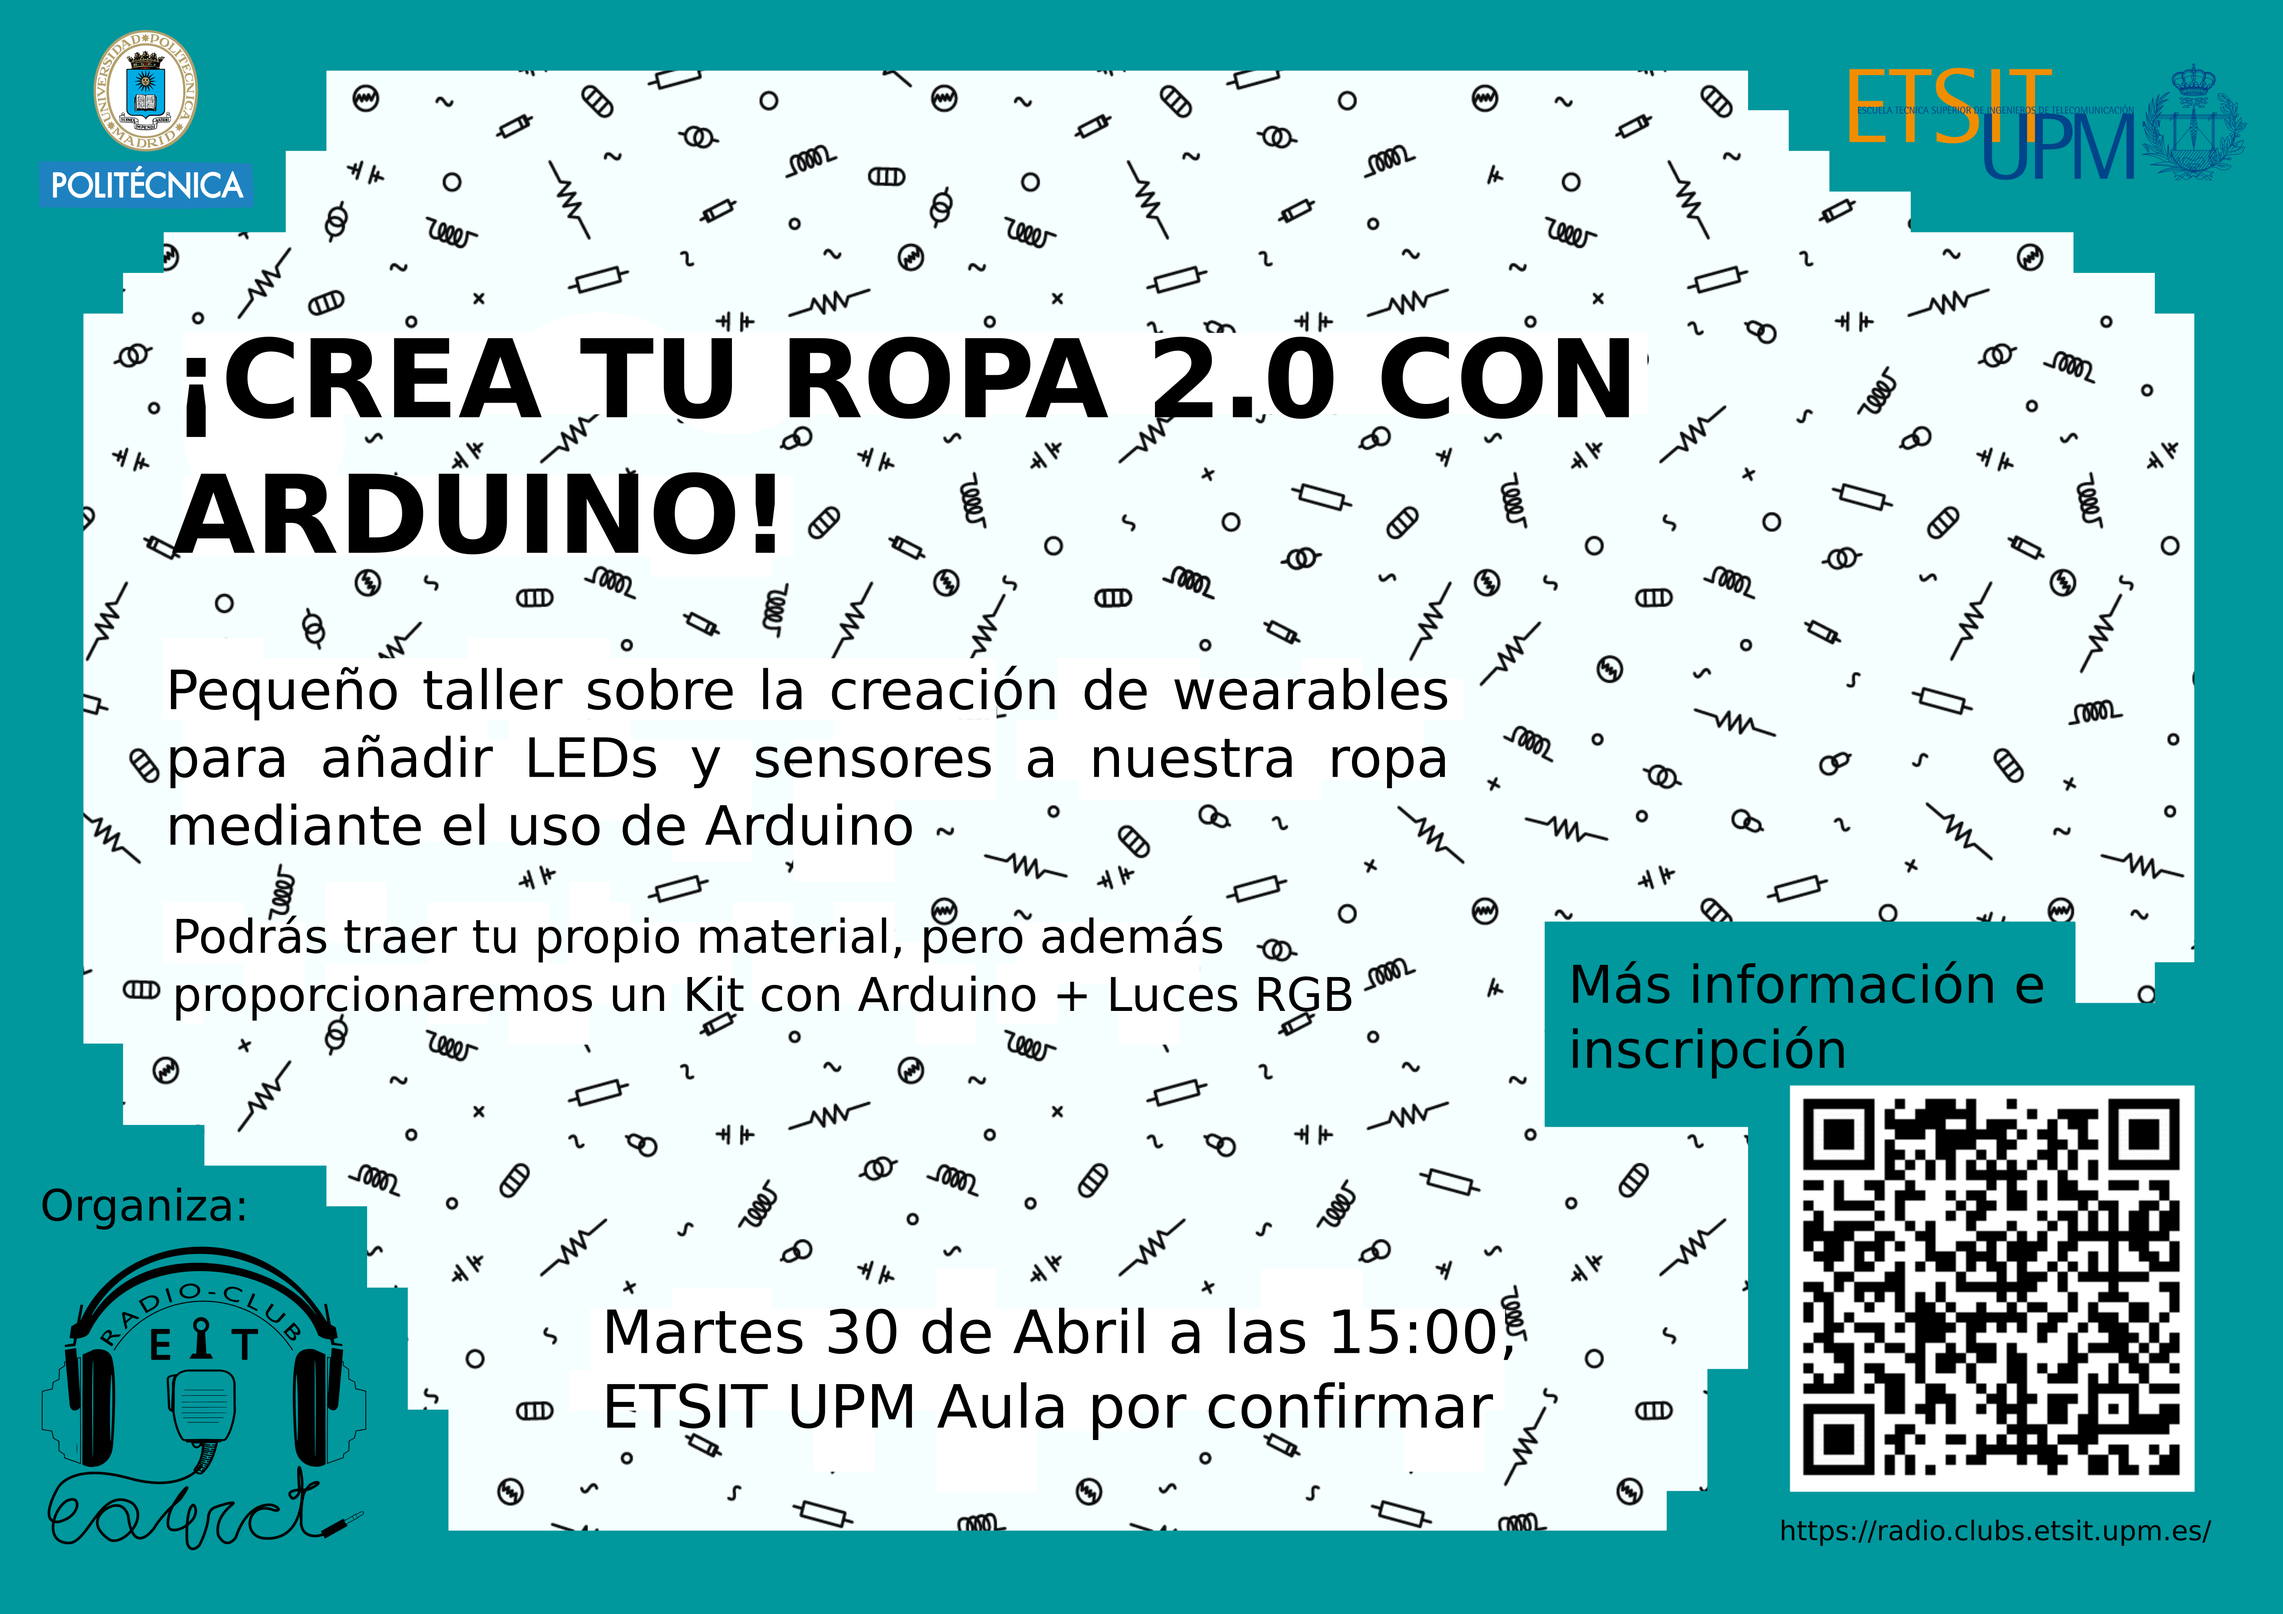
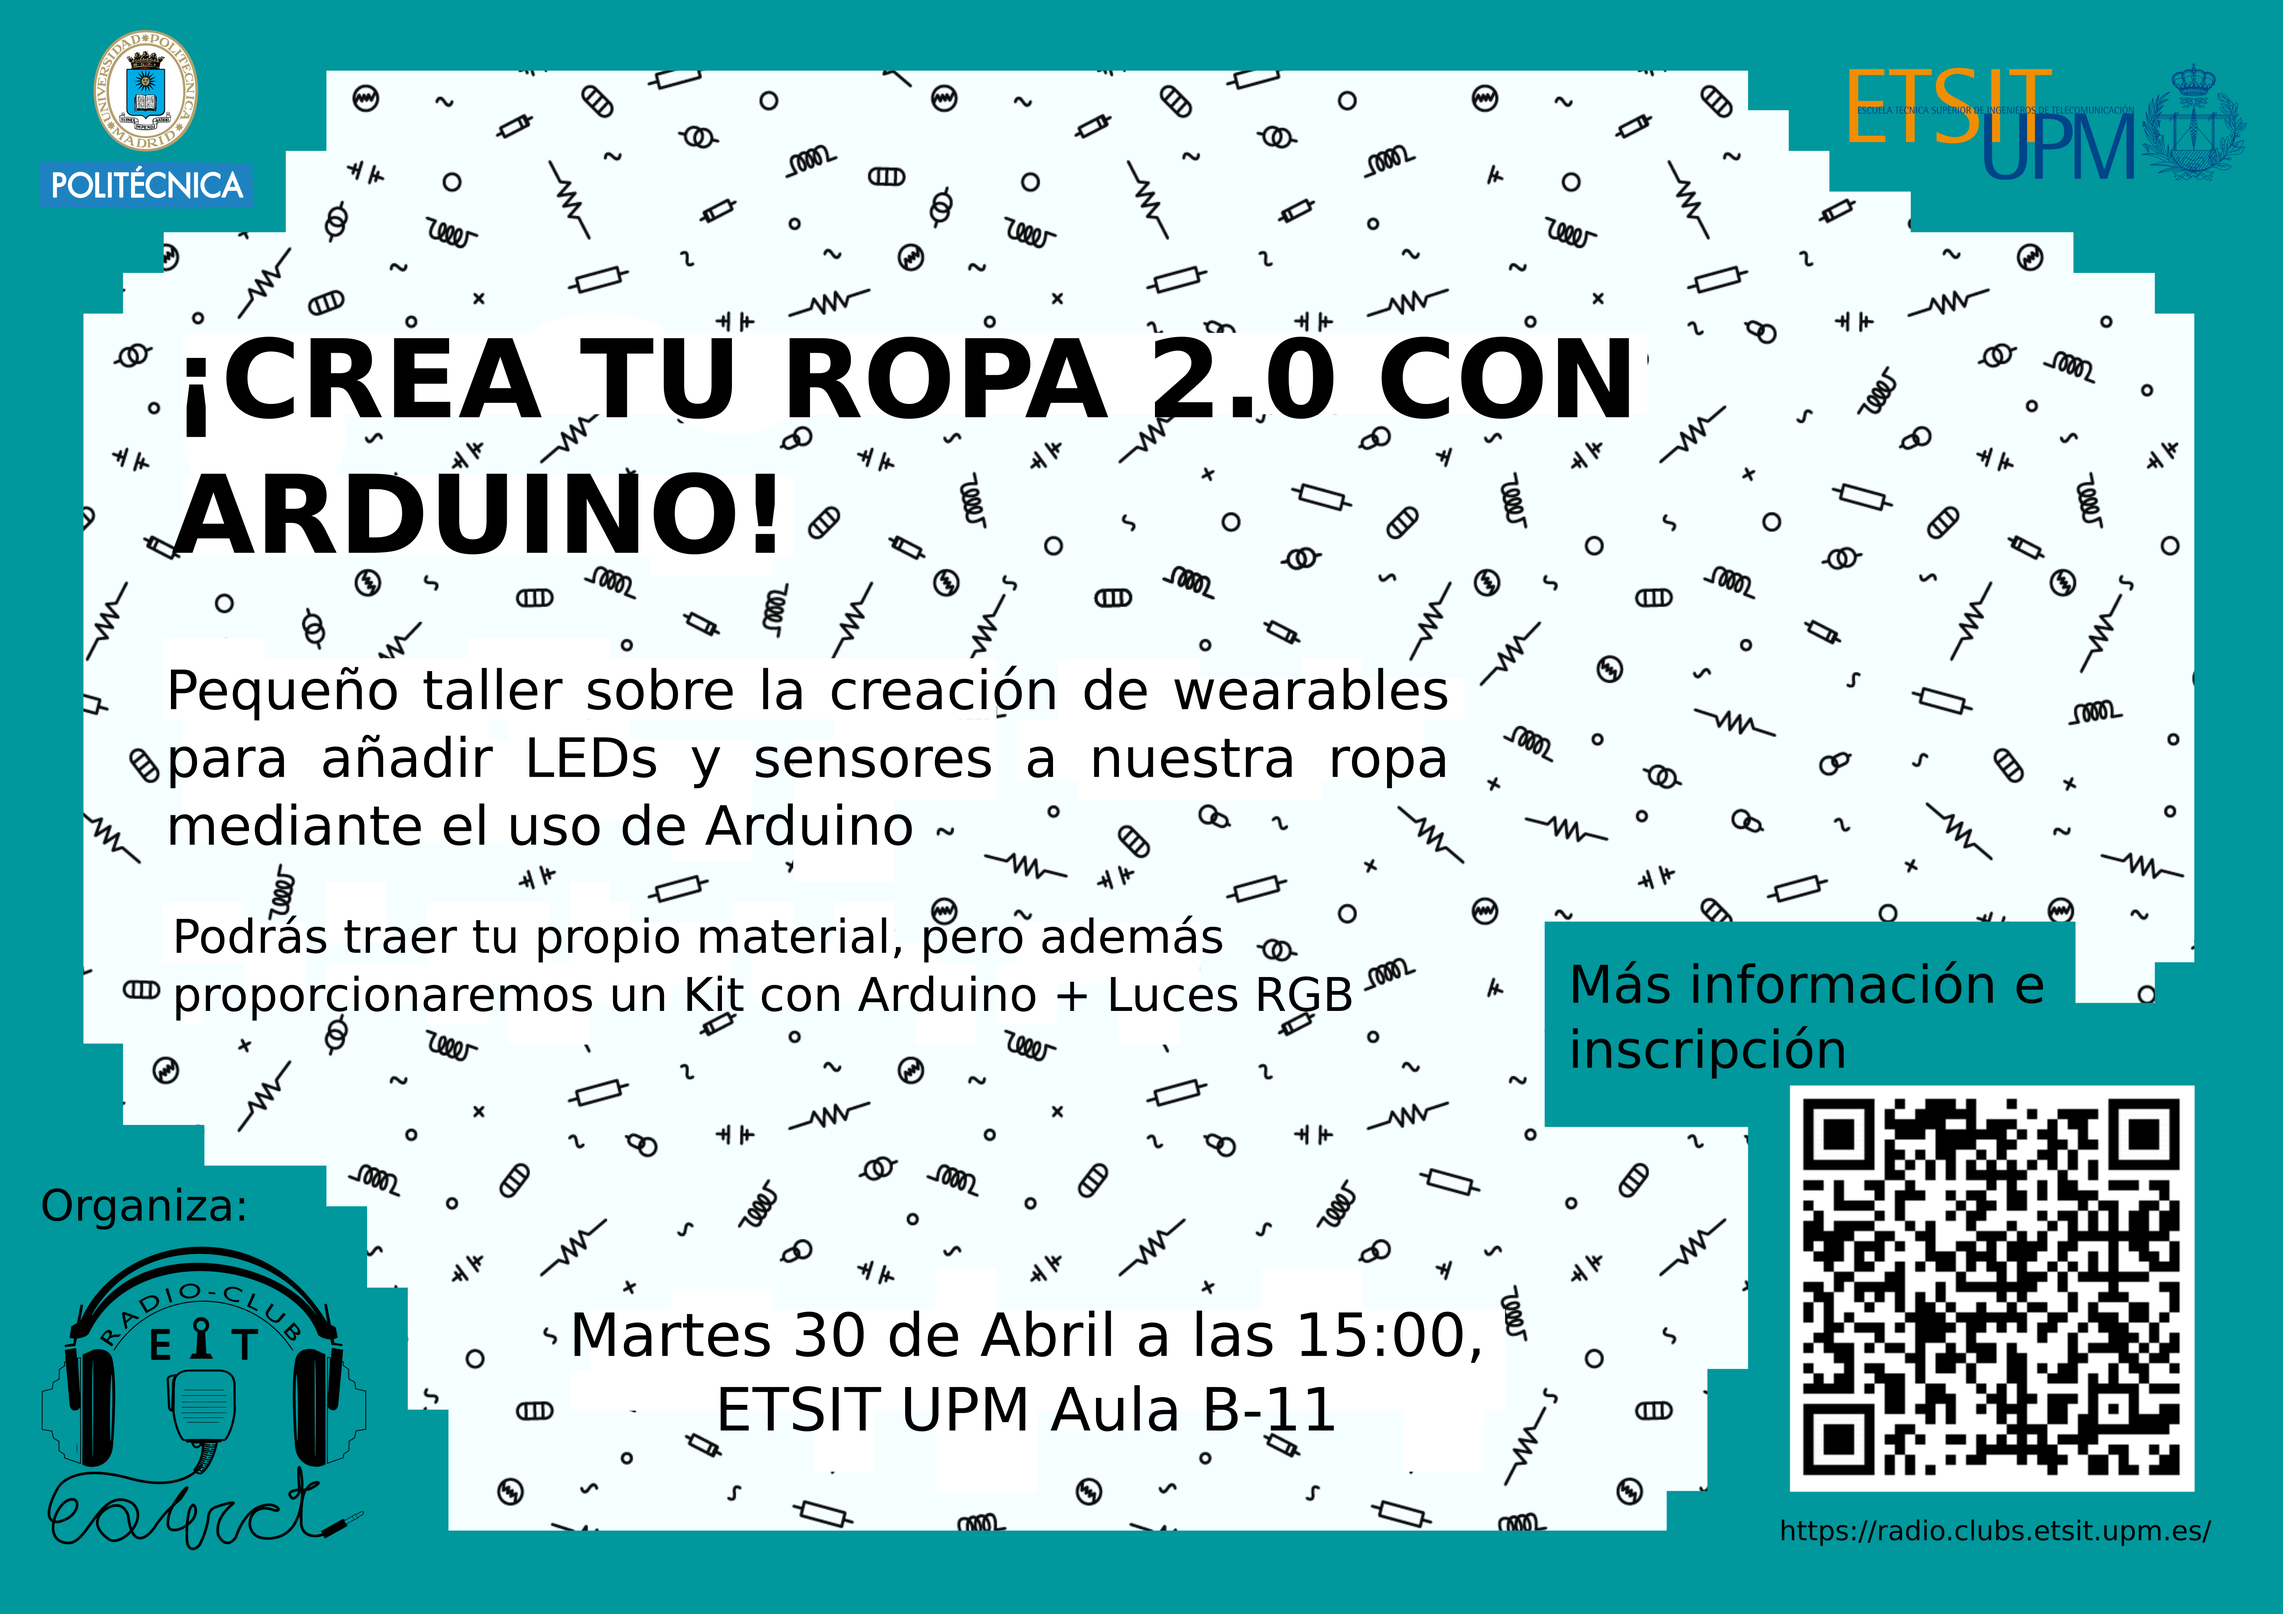
updating location arduino activity

Changed region(s): [[0.2493, 0.8108, 0.6545, 0.9043]]

diff --git a/content/activities/2019-04-30-Crea-tu-ropa-2-0-con-arduino.md b/content/activities/2019-04-30-Crea-tu-ropa-2-0-con-arduino.md
@@ -13,7 +13,7 @@ startDate: 2019-04-30T15:00:00
 endDate: 2019-04-30T18:00:00
 
 #Lugar
-place: "Radioclub, ETSIT UPM, Madrid, Aula por confirmar"
+place: "Radioclub, ETSIT UPM, Madrid, Aula B-11"
 street: "Av. Complutense, 30"
 locality: "Madrid"
 postalCode: "28040"
